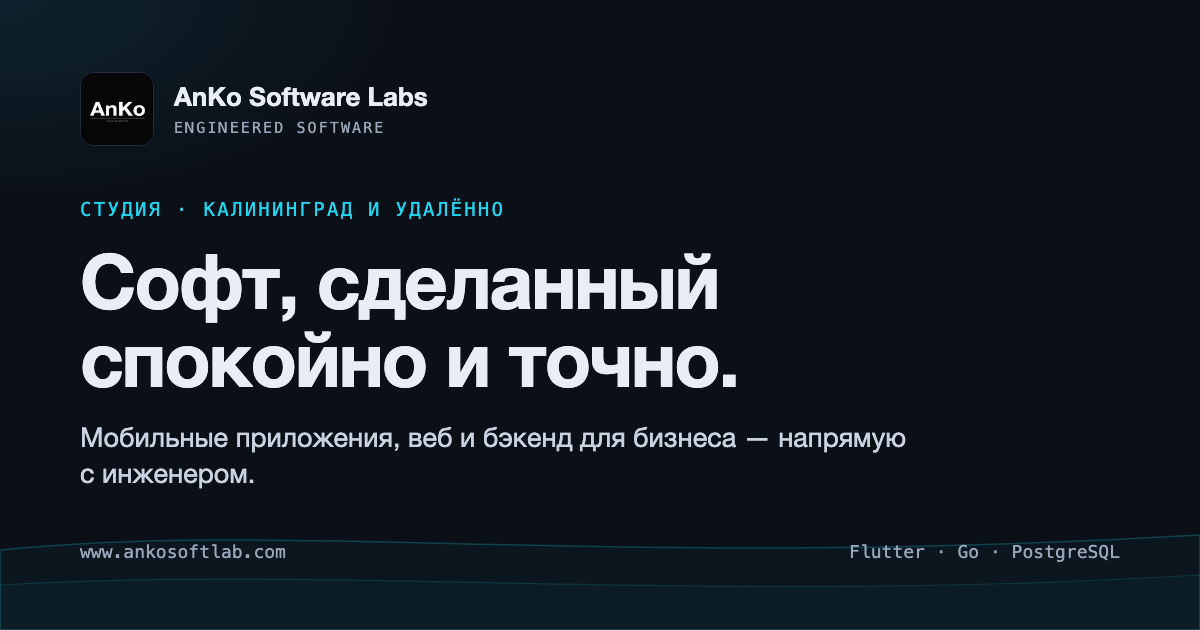
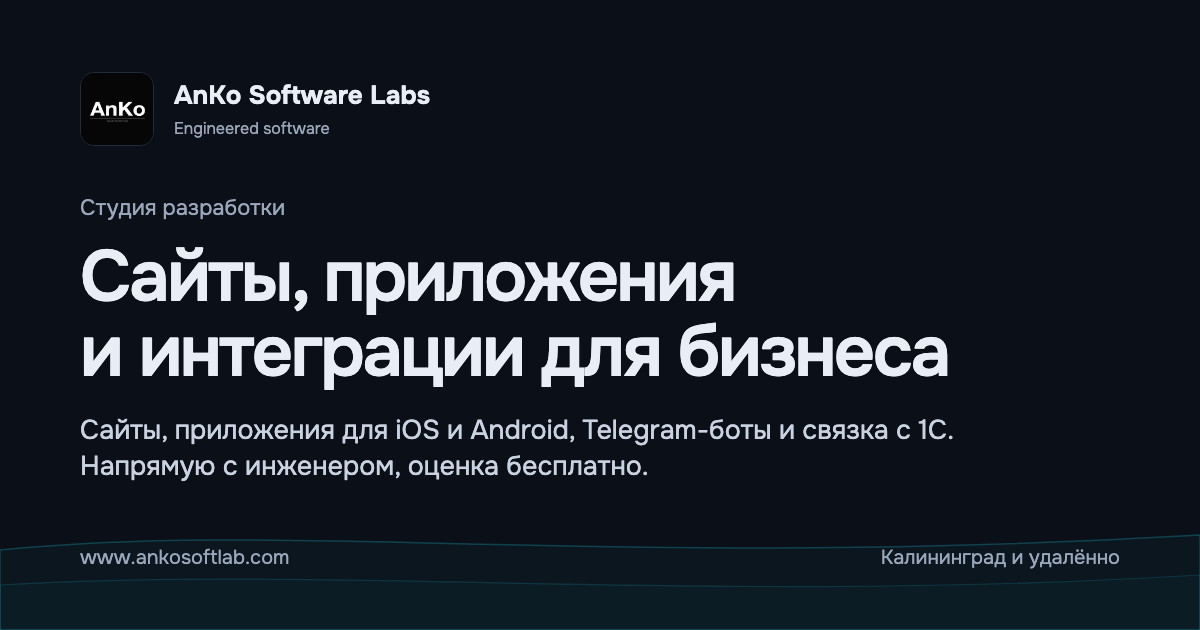
2026-11-13: редизайн B — картинки превью ссылок RU и EN с новым H1 (Onest, без капса), HTML-исходники в og-src/ с инструкцией пересъёмки; касания от 44 px у почты и ссылок подвала; подпись подвала обычным шрифтом

diff --git a/og-src/og-ru.html b/og-src/og-ru.html
@@ -1,0 +1,25 @@
+<!doctype html><html lang="ru"><head><meta charset="utf-8"><style>
+@font-face{font-family:Onest;font-weight:100 900;src:url(../static/fonts/onest-cyrillic-wght-normal.woff2) format("woff2");unicode-range:U+0400-045F}
+@font-face{font-family:Onest;font-weight:100 900;src:url(../static/fonts/onest-latin-wght-normal.woff2) format("woff2");unicode-range:U+0000-00FF,U+2000-206F}
+@font-face{font-family:Onest;font-weight:100 900;src:url(../static/fonts/onest-latin-ext-wght-normal.woff2) format("woff2");unicode-range:U+0100-02FF}
+*{margin:0;box-sizing:border-box}
+body{width:1200px;height:630px;background:#0b0f17;color:#e8edf6;font-family:Onest,-apple-system,Arial,sans-serif;position:relative;overflow:hidden}
+.glow{position:absolute;inset:0;background:radial-gradient(600px 300px at 0 0,rgba(34,211,238,.10),transparent 70%)}
+.wrap{position:absolute;left:80px;top:72px;right:80px}
+.brand{display:flex;align-items:center;gap:20px}
+.brand img{width:74px;height:74px;border-radius:14px;border:1px solid #222b3d;object-fit:cover}
+.name{font-size:26px;font-weight:700}
+.sub{font-size:16px;color:#9aa6ba;margin-top:6px}
+.eyebrow{margin-top:48px;font-size:22px;color:#9aa6ba}
+h1{margin-top:18px;font-size:72px;line-height:1.04;font-weight:600;letter-spacing:-.035em;max-width:1000px}
+.lead{margin-top:22px;font-size:27px;line-height:1.35;color:#c9d2e1;max-width:900px}
+.foot{position:absolute;left:80px;right:80px;bottom:60px;display:flex;justify-content:space-between;font-size:20px;color:#9aa6ba}
+.waves{position:absolute;left:0;right:0;bottom:0;height:150px;opacity:.55}
+</style></head><body>
+<svg class="waves" viewBox="0 0 1200 150" preserveAspectRatio="none"><path d="M0 70 C300 40 600 90 1200 55 L1200 150 L0 150Z" fill="rgba(34,211,238,.07)" stroke="rgba(34,211,238,.45)" stroke-width="1.5"/><path d="M0 105 C350 85 700 125 1200 95 L1200 150 L0 150Z" fill="rgba(34,211,238,.06)" stroke="rgba(34,211,238,.30)" stroke-width="1.2"/></svg>
+<div class="wrap"><div class="brand"><img src="../assets/brand/anko_logo.jpg"><div><div class="name">AnKo Software Labs</div><div class="sub">Engineered software</div></div></div>
+<div class="eyebrow">Студия разработки</div>
+<h1>Сайты, приложения и&nbsp;интеграции для бизнеса</h1>
+<div class="lead">Сайты, приложения для iOS и Android, Telegram-боты и&nbsp;связка с&nbsp;1С. Напрямую с&nbsp;инженером, оценка бесплатно.</div></div>
+<div class="foot"><span>www.ankosoftlab.com</span><span>Калининград и удалённо</span></div>
+</body></html>

diff --git a/og-src/og-en.html b/og-src/og-en.html
@@ -1,0 +1,25 @@
+<!doctype html><html lang="en"><head><meta charset="utf-8"><style>
+@font-face{font-family:Onest;font-weight:100 900;src:url(../static/fonts/onest-cyrillic-wght-normal.woff2) format("woff2");unicode-range:U+0400-045F}
+@font-face{font-family:Onest;font-weight:100 900;src:url(../static/fonts/onest-latin-wght-normal.woff2) format("woff2");unicode-range:U+0000-00FF,U+2000-206F}
+@font-face{font-family:Onest;font-weight:100 900;src:url(../static/fonts/onest-latin-ext-wght-normal.woff2) format("woff2");unicode-range:U+0100-02FF}
+*{margin:0;box-sizing:border-box}
+body{width:1200px;height:630px;background:#0b0f17;color:#e8edf6;font-family:Onest,-apple-system,Arial,sans-serif;position:relative;overflow:hidden}
+.glow{position:absolute;inset:0;background:radial-gradient(600px 300px at 0 0,rgba(34,211,238,.10),transparent 70%)}
+.wrap{position:absolute;left:80px;top:72px;right:80px}
+.brand{display:flex;align-items:center;gap:20px}
+.brand img{width:74px;height:74px;border-radius:14px;border:1px solid #222b3d;object-fit:cover}
+.name{font-size:26px;font-weight:700}
+.sub{font-size:16px;color:#9aa6ba;margin-top:6px}
+.eyebrow{margin-top:48px;font-size:22px;color:#9aa6ba}
+h1{margin-top:18px;font-size:72px;line-height:1.04;font-weight:600;letter-spacing:-.035em;max-width:1000px}
+.lead{margin-top:22px;font-size:27px;line-height:1.35;color:#c9d2e1;max-width:900px}
+.foot{position:absolute;left:80px;right:80px;bottom:60px;display:flex;justify-content:space-between;font-size:20px;color:#9aa6ba}
+.waves{position:absolute;left:0;right:0;bottom:0;height:150px;opacity:.55}
+</style></head><body>
+<svg class="waves" viewBox="0 0 1200 150" preserveAspectRatio="none"><path d="M0 70 C300 40 600 90 1200 55 L1200 150 L0 150Z" fill="rgba(34,211,238,.07)" stroke="rgba(34,211,238,.45)" stroke-width="1.5"/><path d="M0 105 C350 85 700 125 1200 95 L1200 150 L0 150Z" fill="rgba(34,211,238,.06)" stroke="rgba(34,211,238,.30)" stroke-width="1.2"/></svg>
+<div class="wrap"><div class="brand"><img src="../assets/brand/anko_logo.jpg"><div><div class="name">AnKo Software Labs</div><div class="sub">Engineered software</div></div></div>
+<div class="eyebrow">Software studio</div>
+<h1>Websites, apps and integrations for your business</h1>
+<div class="lead">Websites, iOS and Android apps, Telegram bots and accounting system integrations. Directly with the engineer; the estimate is free.</div></div>
+<div class="foot"><span>www.ankosoftlab.com</span><span>Remote, worldwide</span></div>
+</body></html>

diff --git a/assets/css/main.css b/assets/css/main.css
@@ -1320,6 +1320,12 @@ body { background-image: none; }
 .product-name-b a, .product-row h3 a, .service-row h3 a { display: inline-flex; align-items: center; min-height: 44px; text-decoration: none; }
 .tap-b { display: inline-flex; align-items: center; min-height: 44px; font-weight: 600; }
 .other-b dd .tap-b { display: flex; }
+/* Touch targets ≥ 44 px on phones: footer mail and links, home service and product names. */
+@media (max-width: 899px) {
+  .footer-mail, .footer-nav a { display: inline-flex; align-items: center; min-height: 44px; }
+  .footer-nav ul { gap: 0; }
+}
+.footer-bottom .mono { font-family: var(--font-sans); letter-spacing: 0; text-transform: none; }
 
 /* ---------- Print (legal pages) ---------- */
 @media print {

diff --git a/og-src/README.md b/og-src/README.md
@@ -1,0 +1,9 @@
+Исходники картинок превью ссылок (Open Graph), 1200×630.
+
+Пересъёмка после смены H1 или подписи:
+
+    C="/Applications/Google Chrome.app/Contents/MacOS/Google Chrome"
+    "$C" --headless=new --hide-scrollbars --window-size=1200,630 --virtual-time-budget=3000 \
+      --screenshot="$PWD/static/og/default-ru.png" "file://$PWD/og-src/og-ru.html"
+    "$C" --headless=new --hide-scrollbars --window-size=1200,630 --virtual-time-budget=3000 \
+      --screenshot="$PWD/static/og/default.png" "file://$PWD/og-src/og-en.html"
